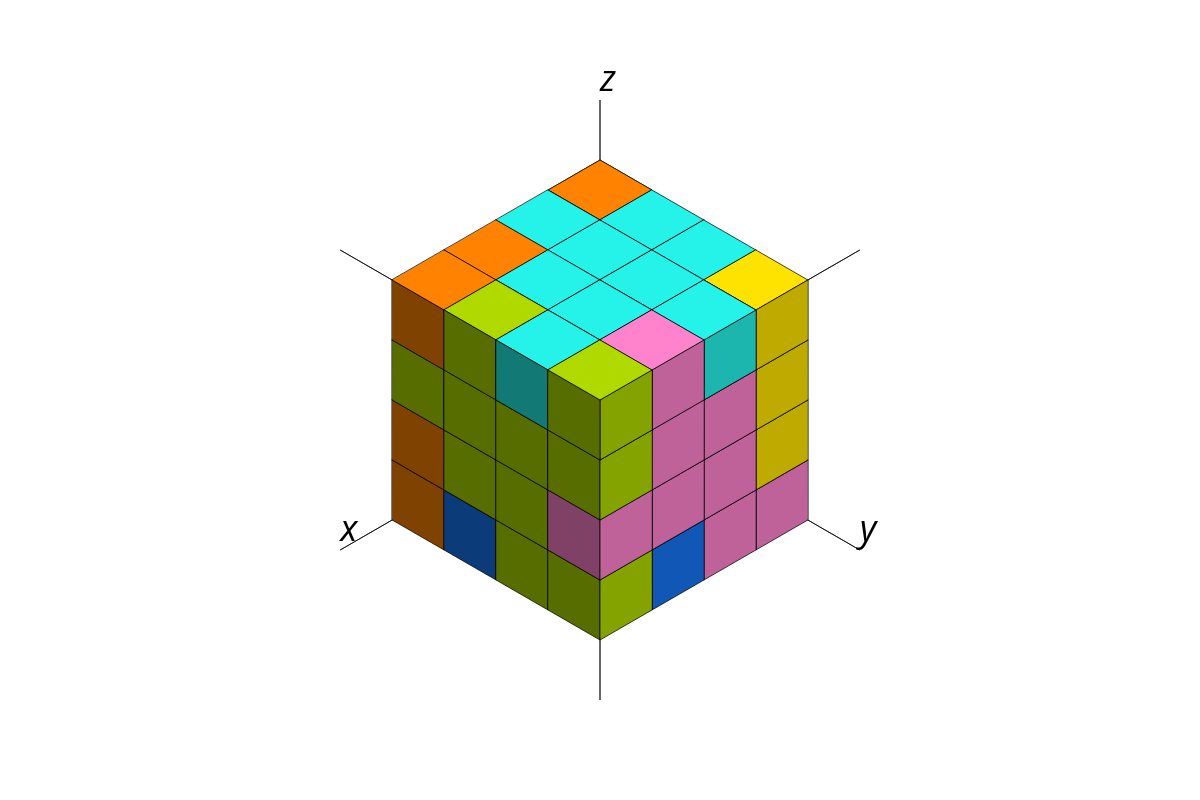
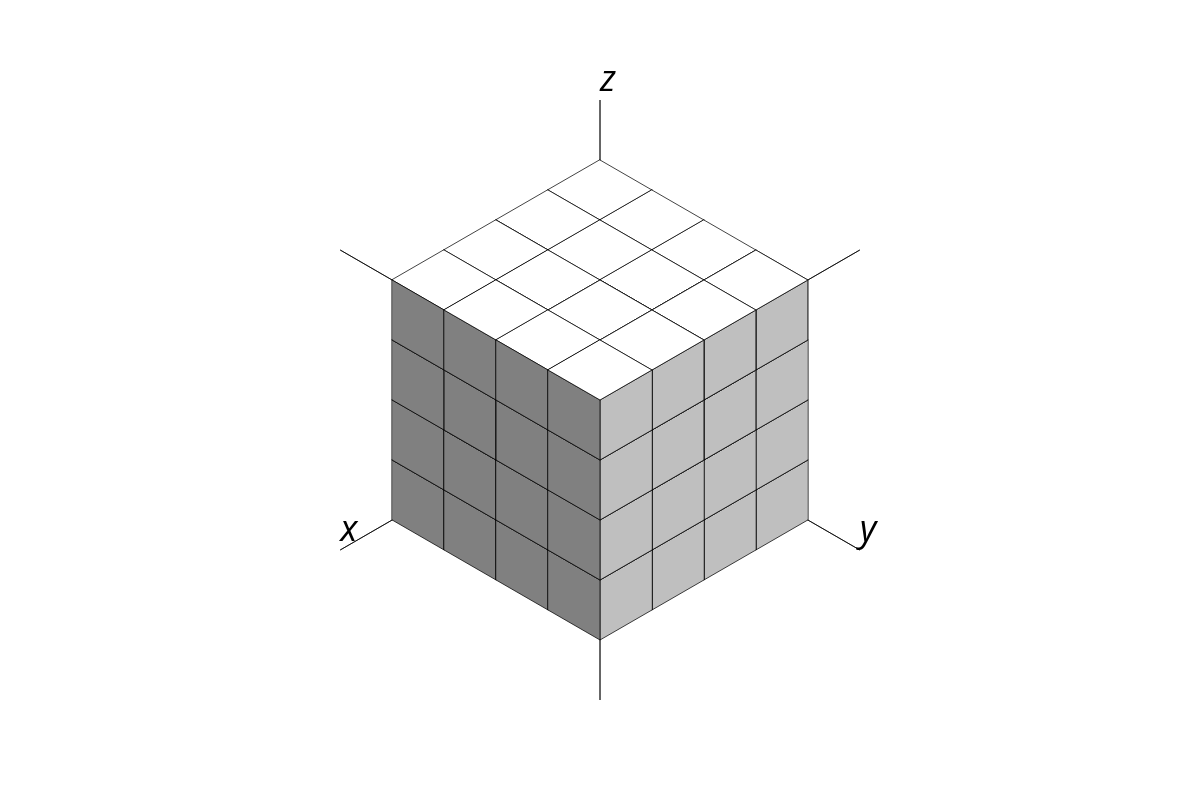
puzzle post

Changed region(s): [[0.3083, 0.1875, 0.6783, 0.8125]]

diff --git a/_posts/2019-12-28-procedurally-generating-puzzles-with-openscad-and-python.md b/_posts/2019-12-28-procedurally-generating-puzzles-with-openscad-and-python.md
@@ -7,8 +7,29 @@ This post describes how I used OpenSCAD and Python to create a randomly generate
 
 ![puzzle-cube](https://i.imgur.com/PfvlCmF.png)
 
-I wrote the code for this project as an exercise in procedurally generate 3D-printable objects. The algorithm produces six pieces that fit together to form a cube. The pieces are presented in a dissasembled form so the user can have the satisfaction of solving the puzzle!
+I wrote the code for this project as an exercise in procedurally generate 3D-printable objects. The algorithm produces six pieces that fit together to form a cube. The pieces are presented in a disassembled form so the user can have the satisfaction of solving the puzzle!
 
 ## The algorithm
 
+The algorithm begins by creating an array oz zeros with the same shape as the completed puzzle. To illustrate, let our puzzle be a 4×4×4 cube:
+
 ![puzzle-cube-001](/img/puzzle-cube-001.png)
+
+```
+x, y, z = shape
+  face_values = (1, 2), (3, 4), (5, 6)
+  array = np.pad(np.zeros((x - 2, y - 2, z - 2)), 1,
+    constant_values=face_values)
+```
+
+Each side is given a value from one to six and non-edge elements are numbered accordingly:
+
+![puzzle-cube-002](/img/puzzle-cube-002.png)
+
+Along each edge, elements are randomly set equal to one of the faces they are adjacent to:
+
+![puzzle-cube-003](/img/puzzle-cube-003.png)
+
+Finally, corner values are chosen randomly from the value of adjacent edge elements. This ensures that each corner remains connected to a puzzle piece.
+
+![puzzle-cube-004](/img/puzzle-cube-004.png)
